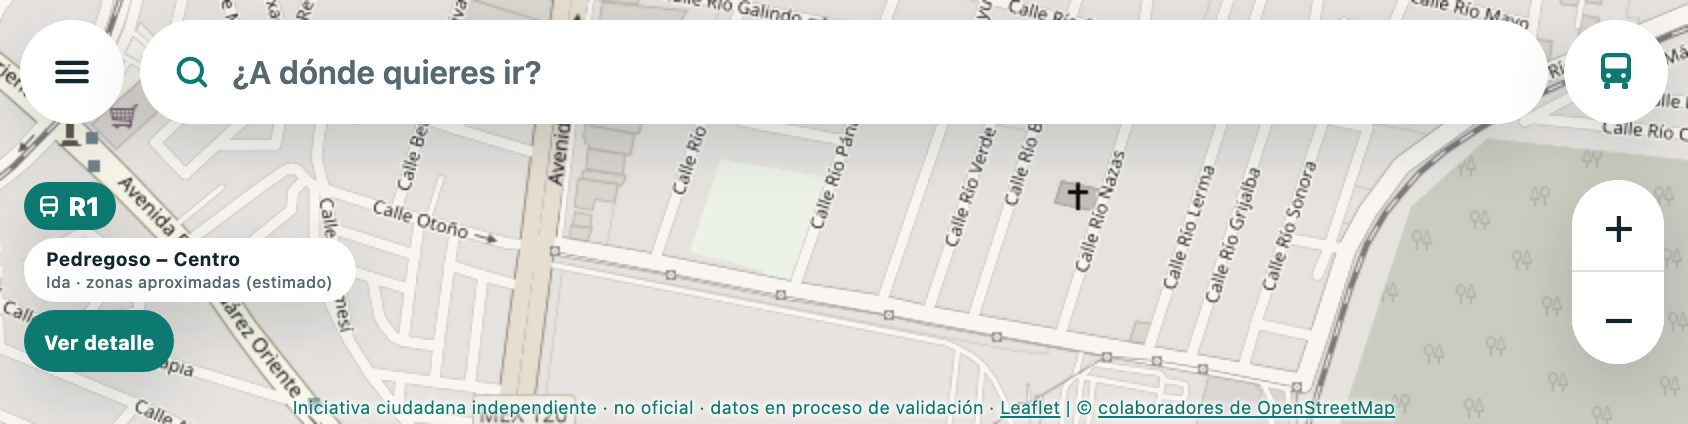
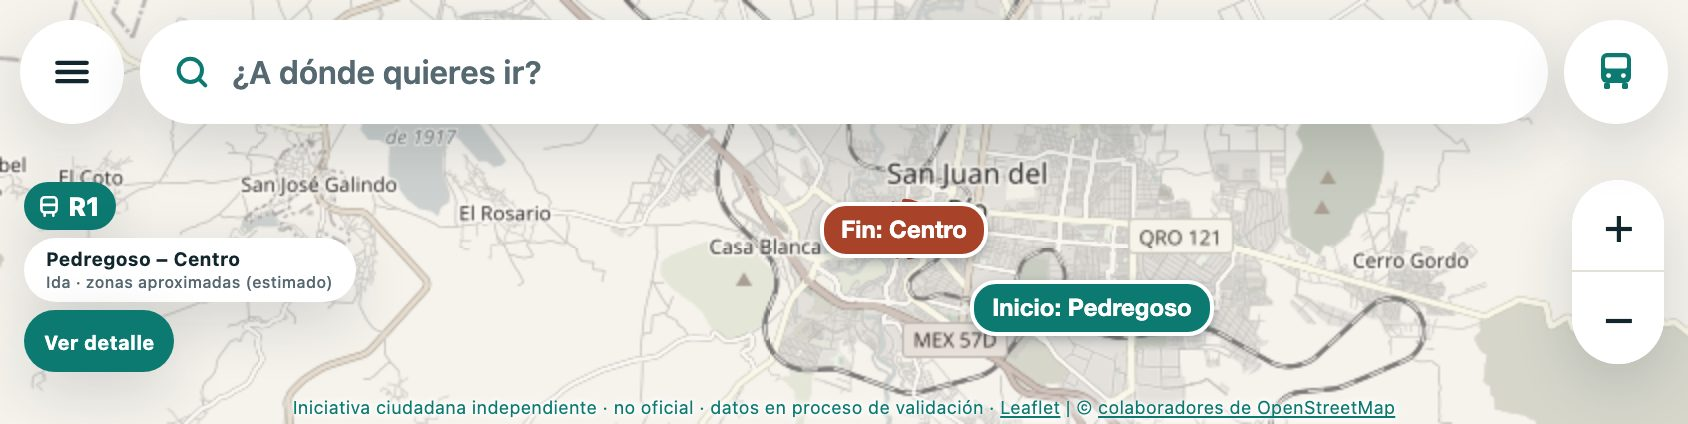
B2 · E-03 · D-60 ajuste 2: acostado, el mapa encuadra la ruta a nivel ciudad (antes se alejaba a la región)

diff --git a/web/src/main.ts b/web/src/main.ts
@@ -223,6 +223,15 @@ function encuadrar(limites: L.LatLngBounds[]): void {
     }
     mapa.invalidateSize();
     const m = margenesFicha();
+    // D-60 (Miguel, 21 nov 2026, 2:05 am): con el teléfono acostado (500 px de alto o
+    // menos) las márgenes normales se comían todo el alto y el mapa se alejaba hasta la
+    // región. Acostado se reserva solo lo que tapa: la barra arriba, el pie abajo, el
+    // chip vertical a la izquierda (su ancho máximo) y el zoom a la derecha.
+    if (window.matchMedia('(max-height: 500px)').matches) {
+      const izquierda = (parseFloat(getComputedStyle(chip).maxWidth) || 190) + 24;
+      mapa.fitBounds(todo, { paddingTopLeft: L.point(izquierda, m.arriba.y + 4), paddingBottomRight: L.point(70, 34), maxZoom: 16 });
+      return;
+    }
     mapa.fitBounds(todo, { paddingTopLeft: L.point(44, m.arriba.y + 30), paddingBottomRight: L.point(44, Math.max(m.abajo.y, 100) + 20), maxZoom: 16 });
   };
   // Después de que el mapa se recorre (menú en computadora), con margen para la

diff --git a/docs/DECISIONES.md b/docs/DECISIONES.md
@@ -1758,7 +1758,12 @@ Miguel).
   Segundo tropiezo: la prueba unitaria «áreas táctiles de al menos 44 px» falló con
   «Ver detalle» de 31 px (el toque de 44 px era un margen invisible). Arreglo correcto:
   el botón mide 44 px y la píldora verde de 31 px se dibuja dentro; se ve igual.
-- **Visto, sin tocar (lección 14), pregunta para Miguel:** acostado, al elegir ruta el
-  mapa se aleja de más (sale toda la región y las etiquetas de inicio y fin se enciman).
-  Ya pasaba antes de D-60 (captura de Miguel de la 1:20 am).
+- **Ajuste 2 (Miguel, 21 nov 2026, 2:05 am):** acostado, al elegir ruta el mapa se
+  alejaba hasta la región (zoom 10 contra 13 parado) y no se veía el trayecto. Causa:
+  el encuadre reservaba ~118 px arriba (barra) y ~166 px abajo (chip a lo ancho) en
+  280 px de alto. Arreglo en `encuadrar` (main.ts): acostado reserva solo la barra
+  arriba, el pie abajo, el ancho del chip vertical a la izquierda y el zoom a la
+  derecha. Prueba e5 (`d60.spec.mjs`): acostado, a lo más un nivel más lejos que
+  parado, con inicio y fin enteros y sin tapar; falló con el defecto (10 contra 13) y
+  pasa con el arreglo (captura `docs/evidencia/d60/4-encuadre-844x280.jpg`).
 - **Decide:** Miguel (en su teléfono, con D-58 y D-59).

diff --git a/docs/PLAN.md b/docs/PLAN.md
@@ -41,8 +41,7 @@ Nombre visible: **SJDR Bus** (D-28). Hosting: Vercel Hobby, $0 (D-26).
    Miguel aprueba D-58 + D-59 + D-60 en su teléfono → integra el PR 1 a `main` (v0.2;
    lo hace Miguel, lección 6) → verificar `main` y https://sjdrbus-sjr.vercel.app →
    «el tema del PDF» (FALTANTE: preguntarle cuál) → D-56 fase 2, maqueta primero.
-2. **Preguntas abiertas para Miguel (una a la vez):** acostado, el mapa se aleja de más
-   al elegir ruta (D-60, visto sin tocar); D-55: ¿tarjetas de «cerca» partidas?,
+2. **Preguntas abiertas para Miguel (una a la vez):** D-55: ¿tarjetas de «cerca» partidas?,
    ¿«Borrar» a 36 px?
 3. **Pendientes con el sí de Miguel:** control de la lección 5 (3.ª ocurrencia:
    pruebas de posición a 320 px y con fuente más ancha); control de la lección 13;
